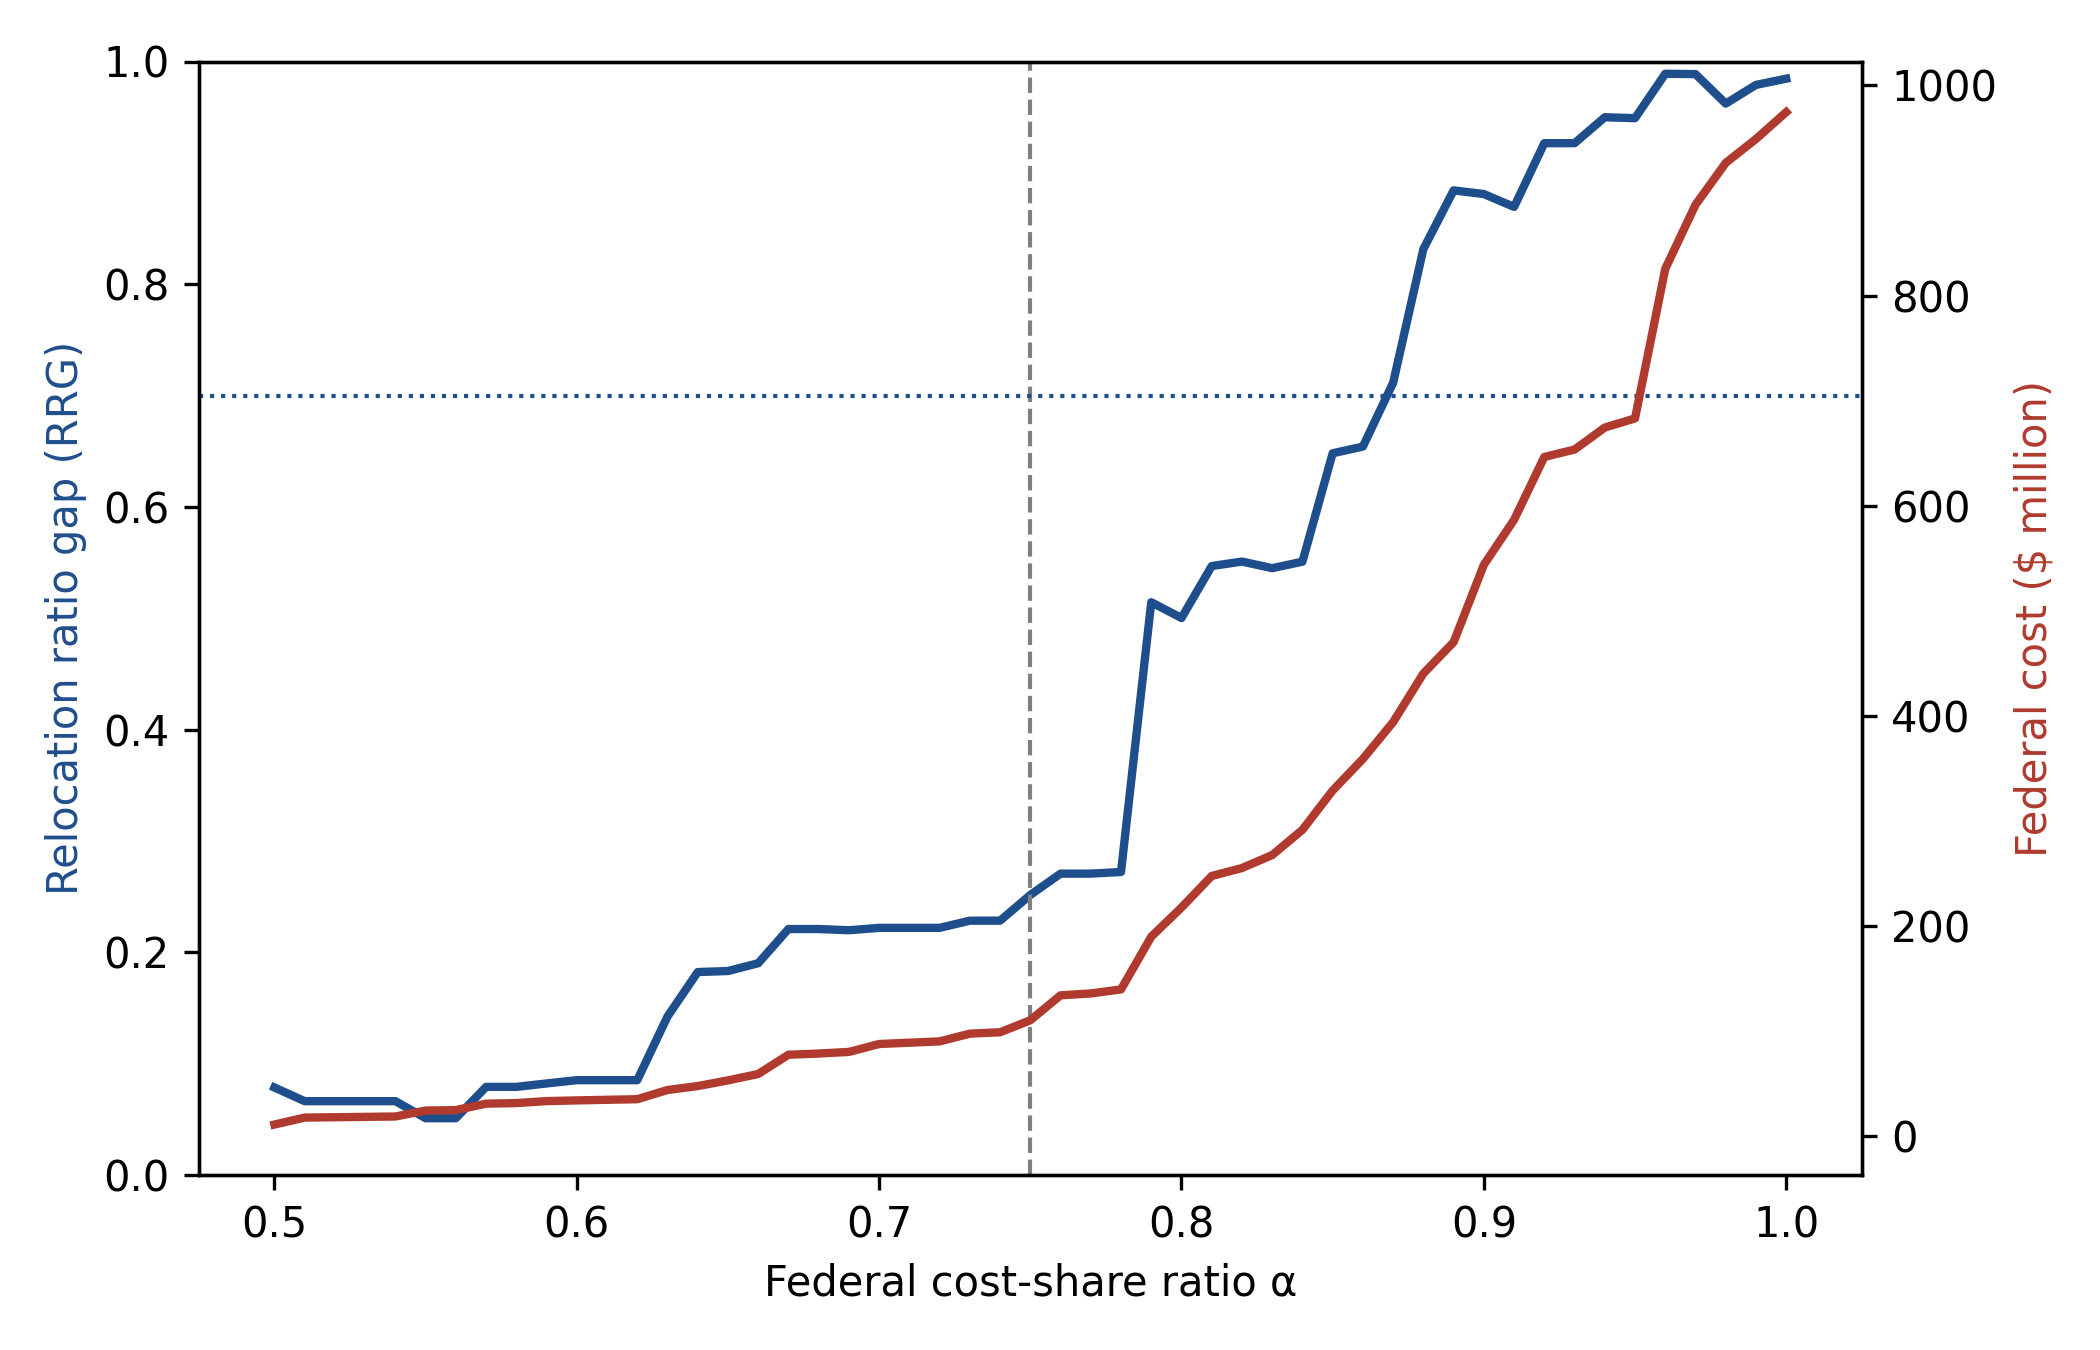
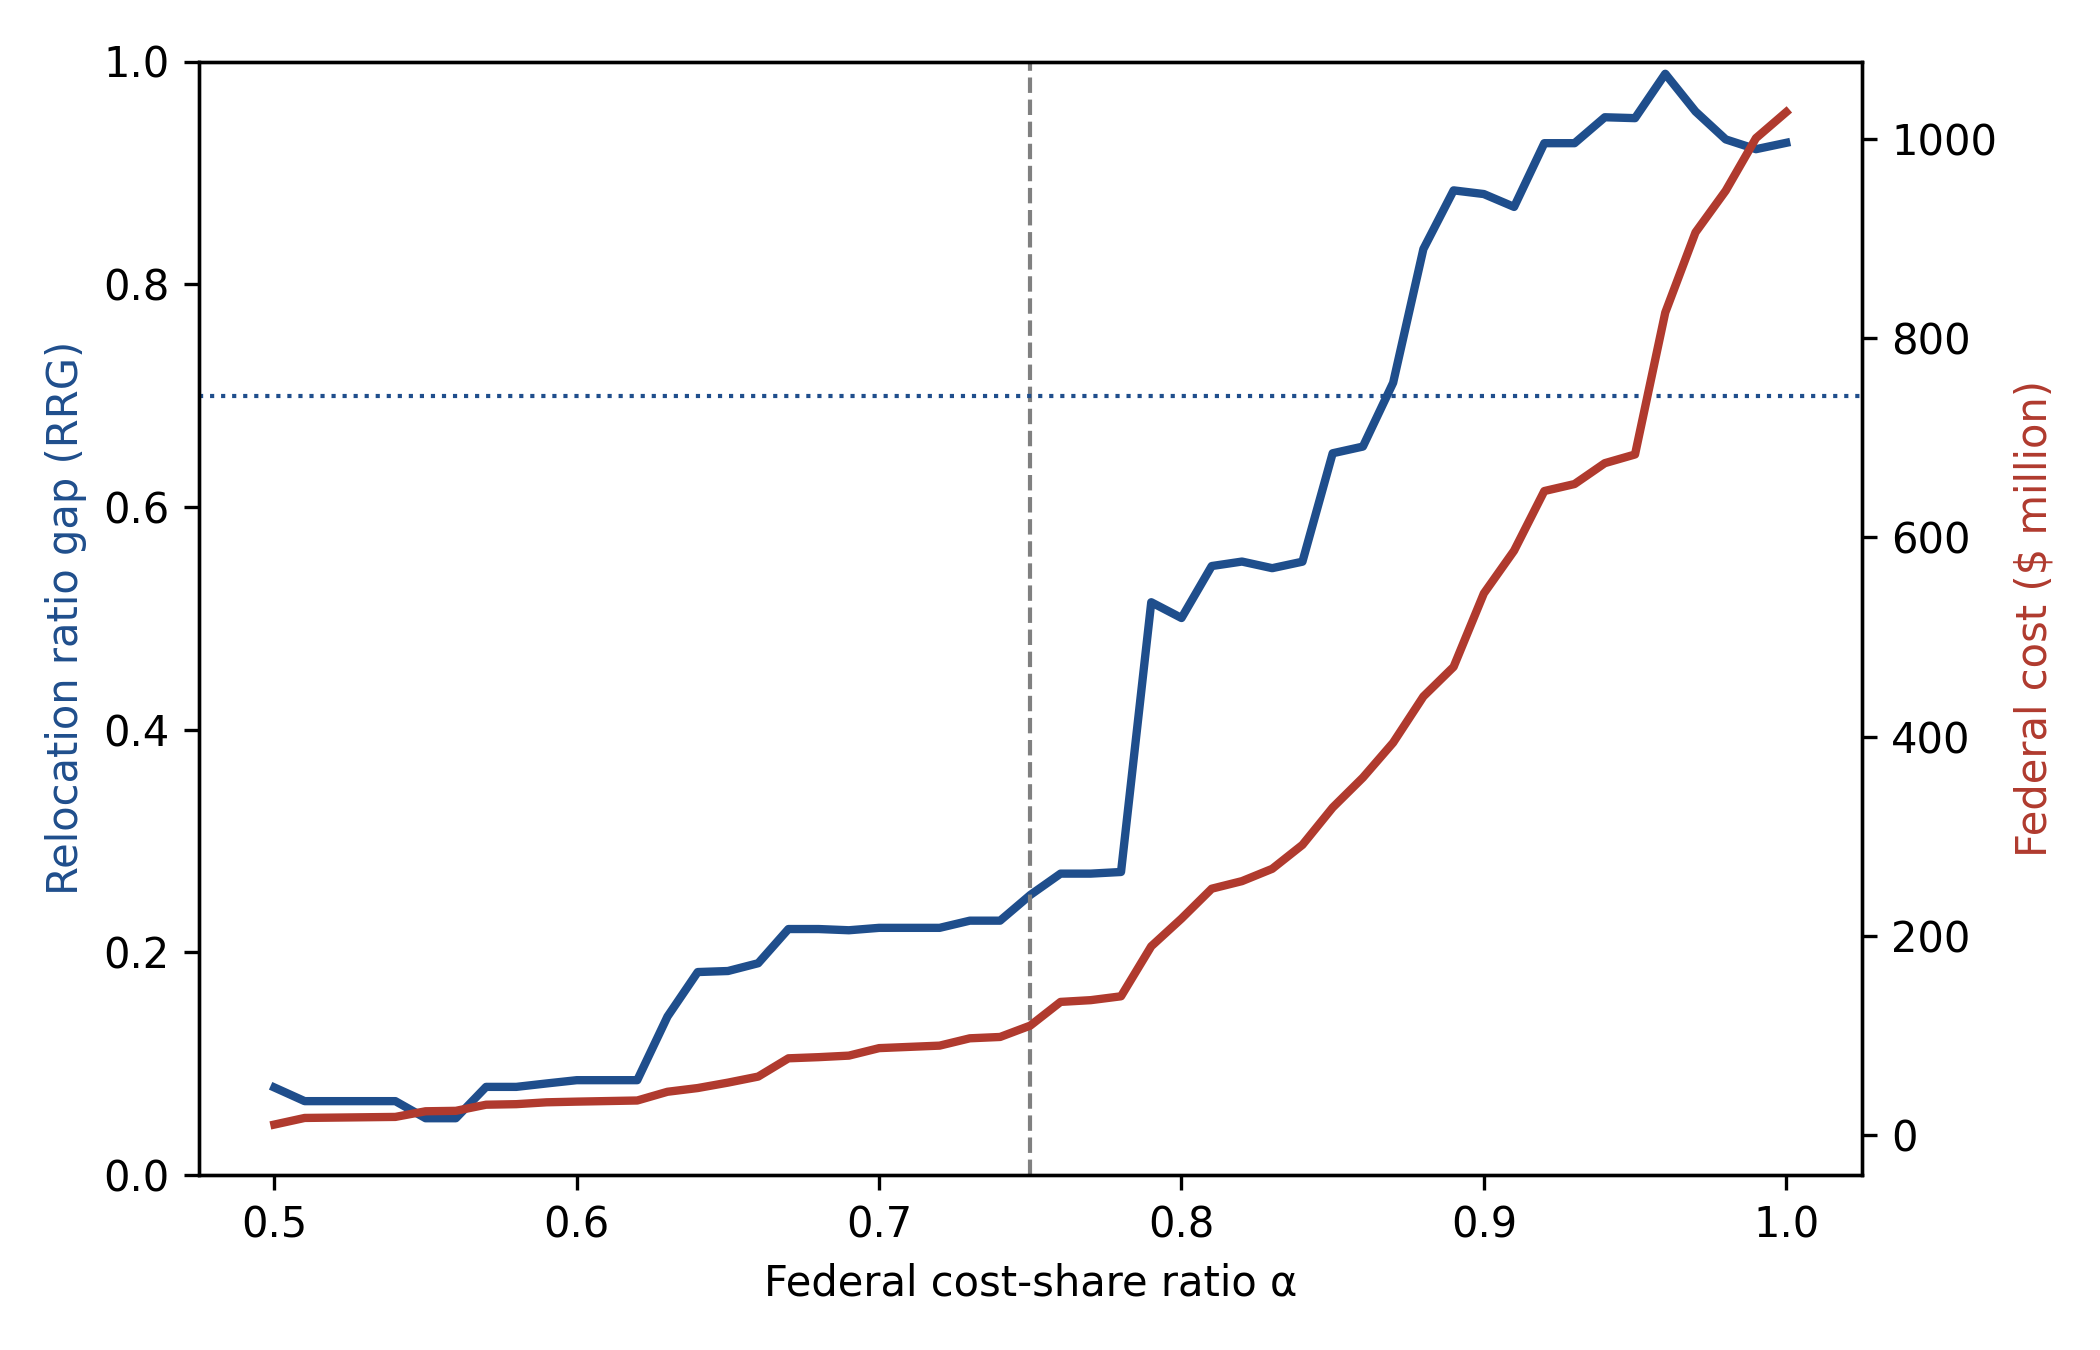
Add pluvial hazard component (Houston); finalize validation program terms; final results

diff --git a/experiments/run_validation.py b/experiments/run_validation.py
@@ -18,11 +18,13 @@ import population
 import model
 
 # program -> (model region, effective alpha, cap, observed rate)
+# All four programs effectively covered the local cost share with state or
+# CDBG-DR funds, so the homeowner-facing federal/state share is 1.0.
 PROGRAMS = {
-    "Staten Island (Sandy)":   ("Staten Island", 1.00, 350_000, 0.082),
-    "Harris County (Harvey)":  ("Houston",       0.90, 250_000, 0.045),
-    "NJ Blue Acres":           ("Norfolk",       0.95, 250_000, 0.068),
-    "Charlotte-Mecklenburg":   ("Charleston",    1.00, 300_000, 0.121),
+    "Staten Island (Sandy)":   ("Staten Island", 1.00, 250_000, 0.082),
+    "Harris County (Harvey)":  ("Houston",       1.00, 250_000, 0.045),
+    "NJ Blue Acres":           ("Norfolk",       1.00, 250_000, 0.068),
+    "Charlotte-Mecklenburg":   ("Charleston",    1.00, 350_000, 0.121),
 }
 
 

diff --git a/config.py b/config.py
@@ -65,6 +65,10 @@ C_PROP = 0.3453
 # ---------------------------------------------------------------------------
 D0_GLOBAL = 0.02095  # baseline EAD ratio at sea level, in-floodplain
 ELEV_SCALE = 6.0       # e-folding elevation for flood hazard (m)
+# Pluvial (rainfall-driven) hazard floor, independent of elevation. Houston's
+# flood risk is predominantly pluvial/riverine (Hurricane Harvey), which the
+# coastal SLR-elevation gradient alone would understate.
+PLUVIAL = {"Houston": 0.011}
 D_SIGMA = 0.30  # lognormal dispersion of household hazard
 D_OUT_FRACTION = 0.10  # out-of-floodplain hazard relative to in-floodplain
 BETA_SLR = 0.89  # damage amplification per metre of sea-level rise

diff --git a/population.py b/population.py
@@ -26,7 +26,7 @@ def build_population(seed: int = C.SEED) -> pd.DataFrame:
 
         # Flood hazard: baseline expected annual damage ratio d_h.
         in_fp = rng.random(n) < exposure
-        d0 = C.D0_GLOBAL * np.exp(-elev / C.ELEV_SCALE)
+        d0 = C.D0_GLOBAL * np.exp(-elev / C.ELEV_SCALE) + C.PLUVIAL.get(name, 0.0)
         z = rng.lognormal(0.0, C.D_SIGMA, n)
         d = d0 * z * np.where(in_fp, 1.0, C.D_OUT_FRACTION)
 
